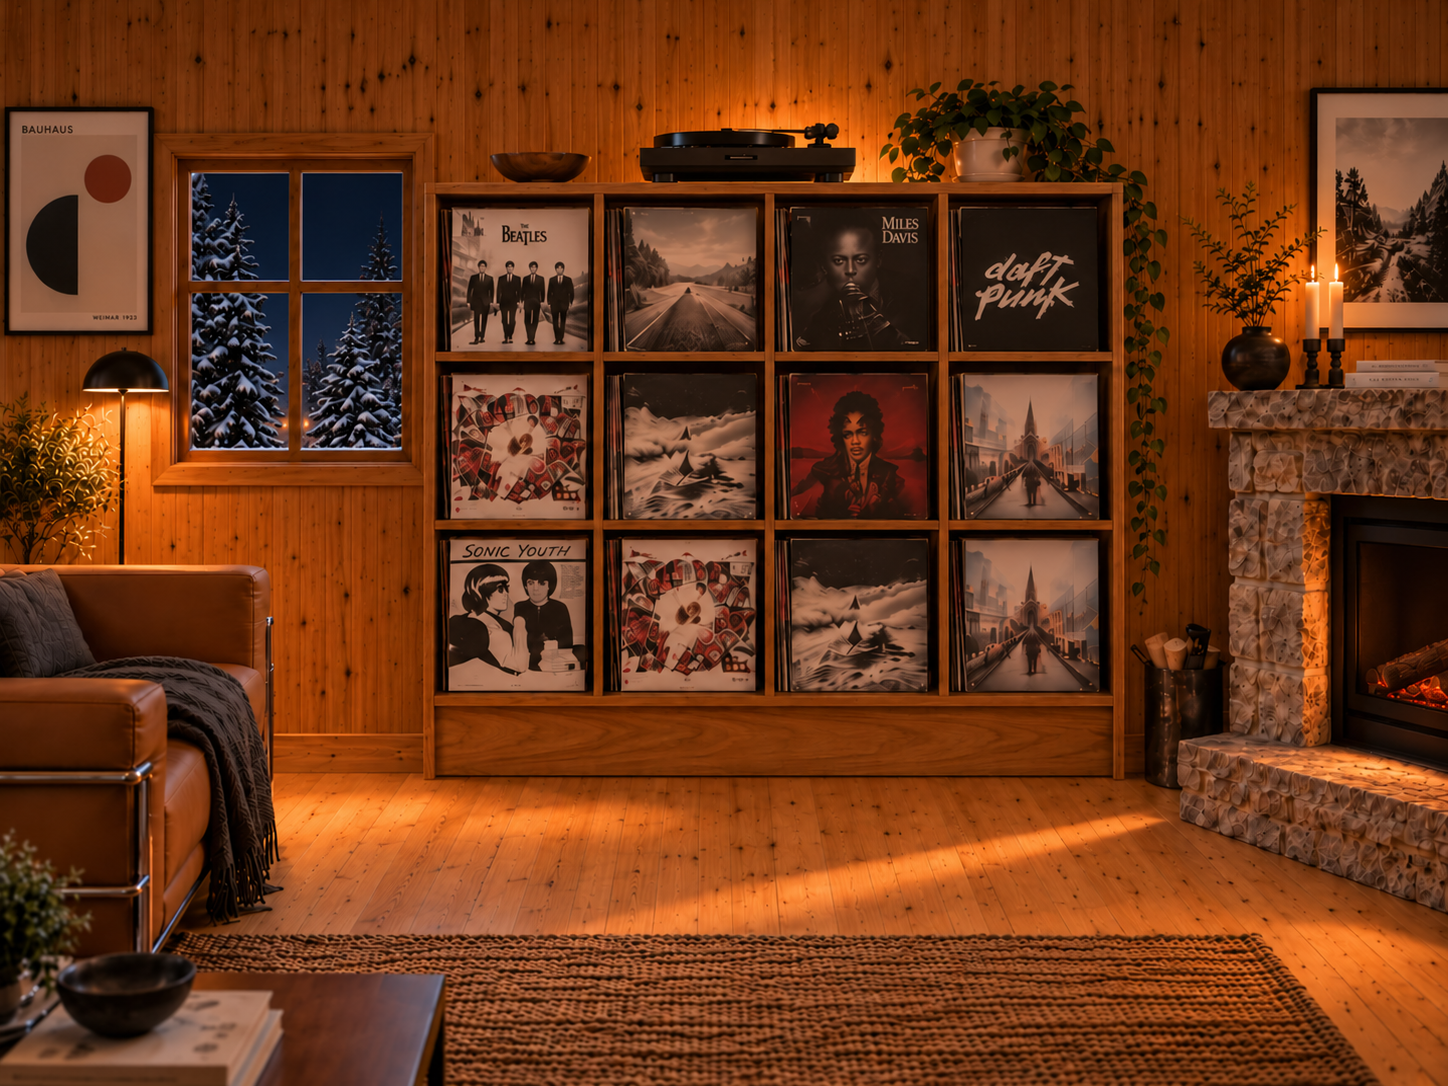
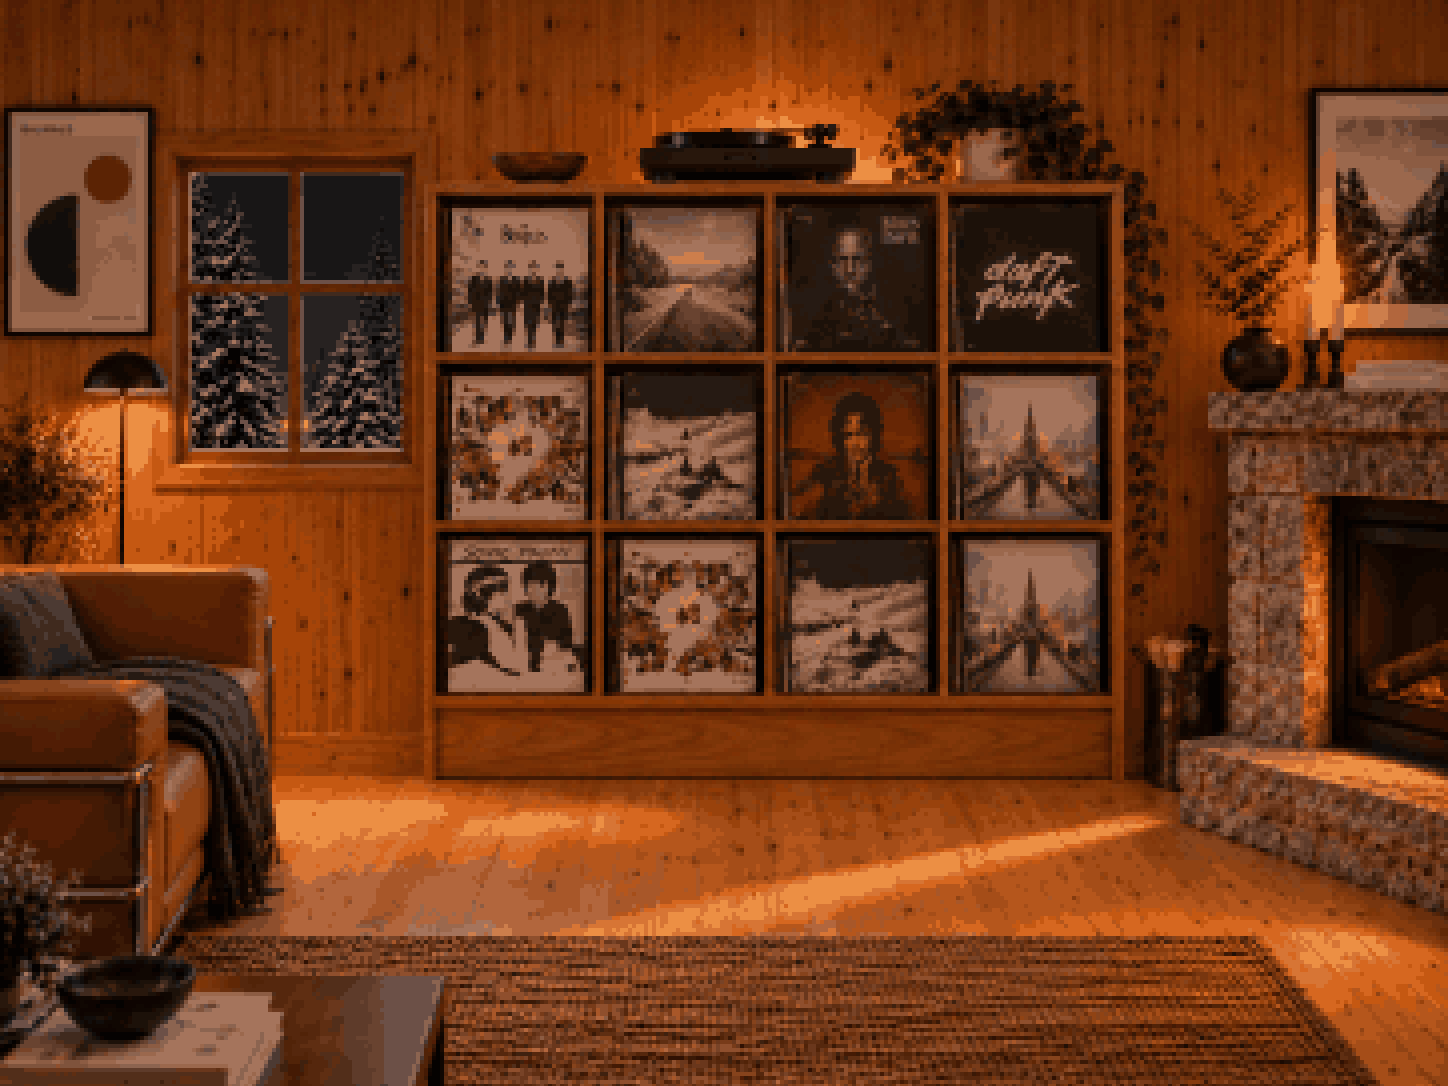
feat(scene): ambient dust + window light; Amber cabin joins the pixel style
- AmbientLife: 14 stepped dust motes drifting in the lamp light (fewer and
  warmer at night) and a banded window light shaft for morning/day/dusk.
  CSS-only (transform/opacity), reduced-motion aware.
- 写实小屋 → 琥珀小屋: warm-cabin art and its clean plate get the same 1/4-res
  quantised pixel treatment; snow/fire use the pixel painter there too and
  shelf covers are pixelated, so every room now shares one art style.

diff --git a/src/scene/ambient-life.css b/src/scene/ambient-life.css
@@ -1,0 +1,25 @@
+/* Ambient room life (owner: beauty). */
+.ambient-life { position: absolute; inset: 0; pointer-events: none; z-index: 2; overflow: hidden; }
+.ambient-mote { position: absolute; width: calc(4 / 1448 * 100%); aspect-ratio: 1; background: #ffe6b0; opacity: 0; animation: ambient-drift 14s steps(28, end) infinite; }
+.ambient-mote.size-2 { width: calc(6 / 1448 * 100%); }
+@keyframes ambient-drift {
+  0% { opacity: 0; translate: 0 0; }
+  15% { opacity: .55; }
+  50% { translate: 1.2vw -3vh; opacity: .35; }
+  85% { opacity: .5; }
+  100% { opacity: 0; translate: -.6vw -6vh; }
+}
+[data-time-of-day='night'] .ambient-mote { background: #ffd27a; }
+[data-time-of-day='night'] .ambient-mote:nth-child(odd) { display: none; }
+
+/* Window light shaft for the cabins with the left snow window (pixel / warm). */
+.ambient-shaft { position: absolute; left: 12%; top: 15%; width: 34%; height: 70%; opacity: 0; transform-origin: 0 0;
+  background: repeating-linear-gradient(90deg, #fff4d4 0 calc(8 / 1448 * 100%), transparent 0 calc(16 / 1448 * 100%));
+  clip-path: polygon(0 0, 46% 0, 100% 100%, 42% 100%); mix-blend-mode: soft-light; animation: ambient-shaft 9s steps(6, end) infinite alternate; }
+:is([data-room-look='pixel'], [data-room-look='warm'])[data-time-of-day='morning'] .ambient-shaft { --shaft: .32; }
+:is([data-room-look='pixel'], [data-room-look='warm'])[data-time-of-day='day'] .ambient-shaft { --shaft: .22; }
+:is([data-room-look='pixel'], [data-room-look='warm'])[data-time-of-day='dusk'] .ambient-shaft { --shaft: .18; background: repeating-linear-gradient(90deg, #ffb06a 0 calc(8 / 1448 * 100%), transparent 0 calc(16 / 1448 * 100%)); }
+@keyframes ambient-shaft { from { opacity: calc(var(--shaft, 0) * .7); } to { opacity: var(--shaft, 0); } }
+
+@media (prefers-reduced-motion: reduce) { .ambient-mote, .ambient-shaft { animation: none !important; } .ambient-mote { opacity: .3; } .ambient-shaft { opacity: var(--shaft, 0); } }
+html[data-desktop-reduce-motion='true'] .ambient-mote, html[data-desktop-reduce-motion='true'] .ambient-shaft { animation: none !important; }

diff --git a/src/scene/AmbientLife.jsx b/src/scene/AmbientLife.jsx
@@ -1,0 +1,18 @@
+import React from 'react';
+import './ambient-life.css';
+
+// Deterministic layout so screenshots and the wallpaper are stable.
+const MOTES = Array.from({ length: 14 }, (_, i) => {
+  const r = (n) => ((Math.sin((i + 1) * 12.9898 * n) * 43758.5453) % 1 + 1) % 1;
+  return { left: 8 + r(1) * 84, top: 18 + r(2) * 60, delay: -r(3) * 14, duration: 10 + r(4) * 8, size: r(5) > .7 ? 2 : 1 };
+});
+
+/** Quiet room life layered over the artwork: drifting dust in the lamp light
+ *  and a slow window light shaft that follows the time of day. CSS-only
+ *  animation (transform/opacity, stepped), nothing runs per frame in JS. */
+export default function AmbientLife() {
+  return <div className="ambient-life" aria-hidden="true">
+    <span className="ambient-shaft"/>
+    {MOTES.map((m, i) => <i key={i} className={`ambient-mote size-${m.size}`} style={{ left: `${m.left}%`, top: `${m.top}%`, animationDelay: `${m.delay}s`, animationDuration: `${m.duration}s` }}/>)}
+  </div>;
+}

diff --git a/scripts/preview-self-test.js b/scripts/preview-self-test.js
@@ -42,7 +42,7 @@
         if (document.querySelector('.focus-dock-close')) await click('收起专注工具');
         pass('fixture room mounted');
         await click('布置小屋');
-        for (const [id, name] of [['pixel', '像素小屋'], ['warm', '写实小屋'], ['forest', '林间书屋'], ['seaside', '海边慢屋'], ['starlight', '星夜阁楼']]) {
+        for (const [id, name] of [['pixel', '像素小屋'], ['warm', '琥珀小屋'], ['forest', '林间书屋'], ['seaside', '海边慢屋'], ['starlight', '星夜阁楼']]) {
           await click('选择场景 ' + name); await wait(() => document.querySelector('.cabin-scene')?.dataset.roomLook === id, id); pass('scene ' + id);
           if (['pixel', 'warm'].includes(id)) {
             const layer = await wait(() => document.querySelector('.cabin-atmosphere[data-motion=reduced]'), id + ' clean artwork loads', 25000);

diff --git a/src/RoomScene.jsx b/src/RoomScene.jsx
@@ -1,6 +1,7 @@
 import { getRoomScene } from './scene-catalog.mjs';
 import React, { useLayoutEffect, useRef, useState } from 'react';
 import CabinAtmosphere from './CabinAtmosphere';
+import AmbientLife from './scene/AmbientLife';
 import { VinylDisc } from './RecordLibrary';
 import { Disc3 } from './icons';
 import { roomGeometry } from './room-model.mjs';
@@ -43,6 +44,7 @@ export default function RoomScene({ look = 'warm', items = [], selectedId, selec
       {['warm', 'pixel'].includes(scene.id) ? <CabinAtmosphere look={scene.id} weather={normalizeWeather(weather)}/> : <div className="cabin-snow" aria-hidden="true"/>}
       <div className="cabin-weather" aria-hidden="true"/>
       <div className="cabin-daylight" aria-hidden="true"/>
+      <AmbientLife/>
     </div>
     {cat}
     {children}

diff --git a/src/CabinAtmosphere.jsx b/src/CabinAtmosphere.jsx
@@ -33,7 +33,7 @@ export default function CabinAtmosphere({ look, weather }) {
   const root = useRef(null), snow = useRef(null), fire = useRef(null), light = useRef(null);
   const geometry = ATMOSPHERE[look] || ATMOSPHERE.warm;
   useEffect(() => {
-    const element = root.current, pixel = look === 'pixel';
+    const element = root.current, pixel = look === 'pixel' || look === 'warm'; // every room is pixel art now
     const snowContext = prepare(snow.current, geometry.window, pixel), fireContext = prepare(fire.current, geometry.fire, pixel);
     if (!snowContext || !fireContext) { element.dataset.motion = 'unavailable'; return; }
     const renderFire = createFirePainter(pixel);

diff --git a/src/scene/scene-deck.css b/src/scene/scene-deck.css
@@ -7,7 +7,6 @@
 [data-room-look='starlight'] .scene-deck { left: calc(528 / 1448 * 100%); top: calc(103 / 1086 * 100%); }
 .scene-deck-sprite { position: absolute; inset: 0; width: 100%; height: 100%; overflow: visible; image-rendering: pixelated; }
 .scene-deck-shadow { opacity: .35; }
-[data-room-look='warm'] .scene-deck-sprite { filter: saturate(.9) brightness(.92); }
 
 /* Record drops onto the platter in four frames, then the lamp sheen orbits. */
 .scene-deck-record { animation: deck-record-seat 320ms steps(4, end) both; }

diff --git a/src/scene/room-console.css b/src/scene/room-console.css
@@ -3,7 +3,6 @@
    isometric deck + cabinet become a compact pixel "radio" panel docked
    bottom-left, clear of the window and the shelf. Player markup is untouched. */
 .cabin-scene-art { image-rendering: pixelated; }
-[data-room-look='warm'] .cabin-scene-art { image-rendering: auto; }
 
 .room-turntable { left: 16px; bottom: 16px; top: auto; width: 272px; filter: none !important; }
 .wallpaper-room .room-turntable { bottom: 16px; }
